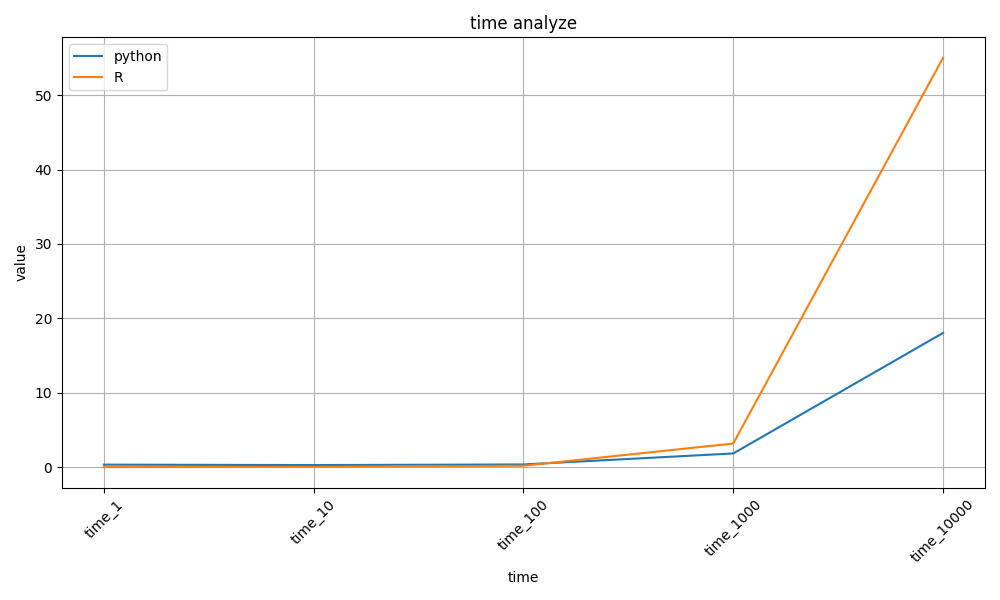
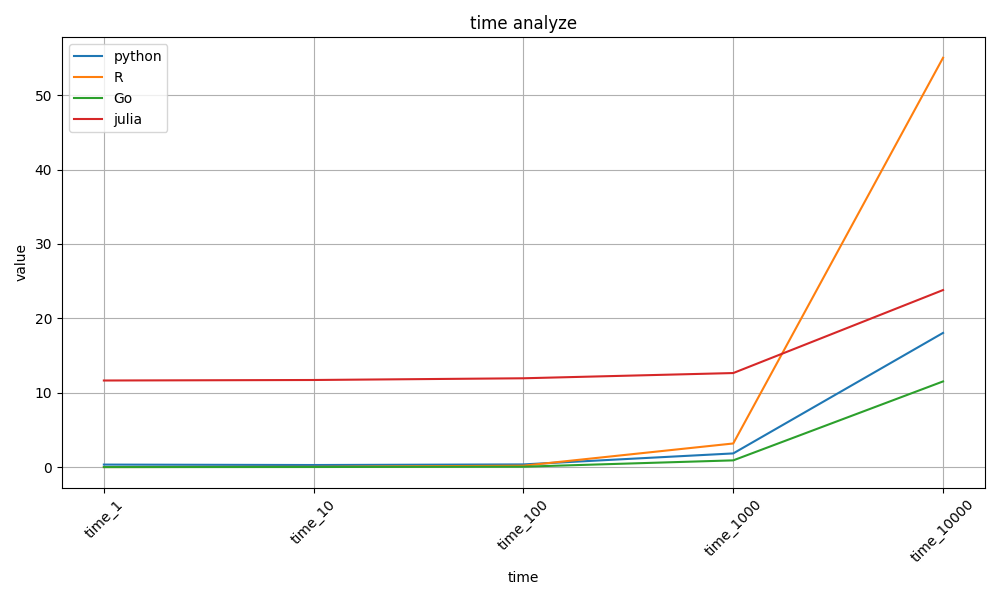
add readme, fix result.png position

diff --git a/README.md b/README.md
@@ -38,3 +38,10 @@
 * Go 感覺在資料分析這塊的社群不太大，沒有像 python 有有名的 package 專門用來做資料分析
 * 使用 "github.com/muesli/kmeans" 進行 kmeans 分析，這是目前找到包得最好的 package
 * 使用 "gonum.org/v1/plot" 進行繪圖
+
+# 總結
+julia > python > R > Go
+* 這四種語言中，最推薦 julia。julia 起初設計的目的便是為了資料分析，故 julia 在這塊表現上，無論是速度還是語法的簡潔性都非常優異，且作為一個新興的現代語言，也吸收了過去各語言的優點。但 julia 也有個致命的缺點，便是社群過小，不但許多功能都還在開發中，搜尋到的資料也很少，因此在查資料時有許多不便。要是未來有更多人使用 julia，且不斷維護的話，這個程式語言我覺得將會是首選。
+* 第二推薦的是 python，python 有許多其他語言所沒有的優點，龐大的社群、容易與其他功能整合、資料分析相關模組完成度非常高等等，很適合拿來做這次專案，最可惜的地方是速度比不過其他語言 (尤其是面對大數據時)，整體來說瑕不掩瑜，如果沒有對速度有極致追求的話，python 是個很好的選擇。
+* 第三推薦的是 R，R 雖然也是專門用於資料分析的語言，但已經 30 年了，沒有在資料分析這塊取得決定性的優勢，可能間接反映出這個語言的一些問題。R 語言感覺上是我學的最差的語言之一，語法不太直觀、開發時奇怪的錯誤不斷出現，都讓我對 R 這個語言的印象不太好。但畢竟也算是個成熟且社群不小的語言，且速度不慢，如果有人熟悉 R 的話，也是個不錯的選擇。
+* 最後推薦的是 Go，Go 是我目前最喜歡的語言之一，拿來處理後端服務非常適合，且本身可以輕鬆支援平行處理的特性，也使得 Go 處理事務的效率有所提升。但在資料分析這塊，社群異常小，查資料的時候能感覺到討論度很低，也沒有像 python 有包含所有常見功能的強大資料分析模組可以使用，甚至許多功能還需要自己寫，最大的優點是經過測試，Go 在處理大數據時效率是最好的，如果非常重視效率，可以考慮一用。
